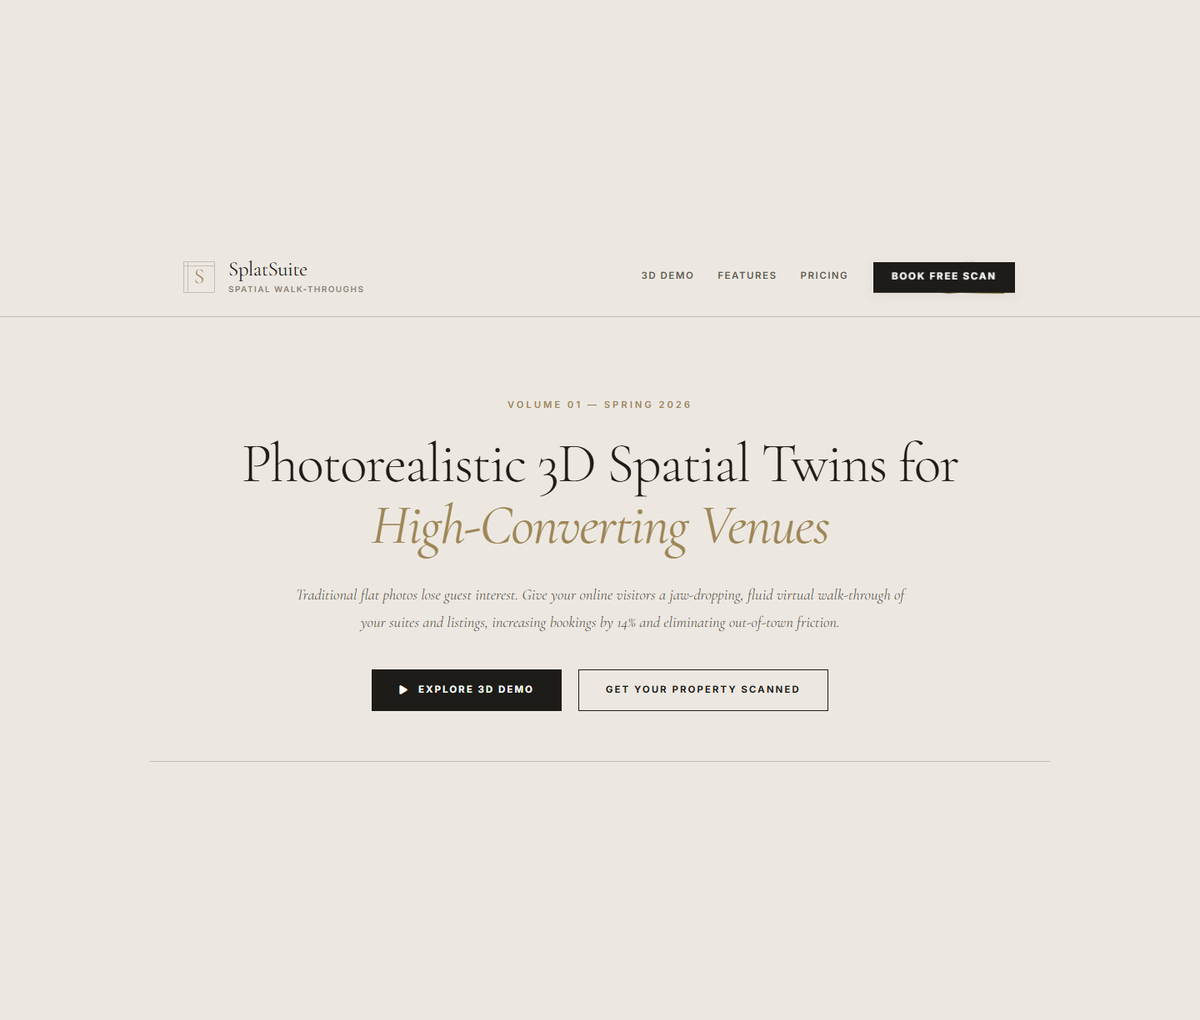
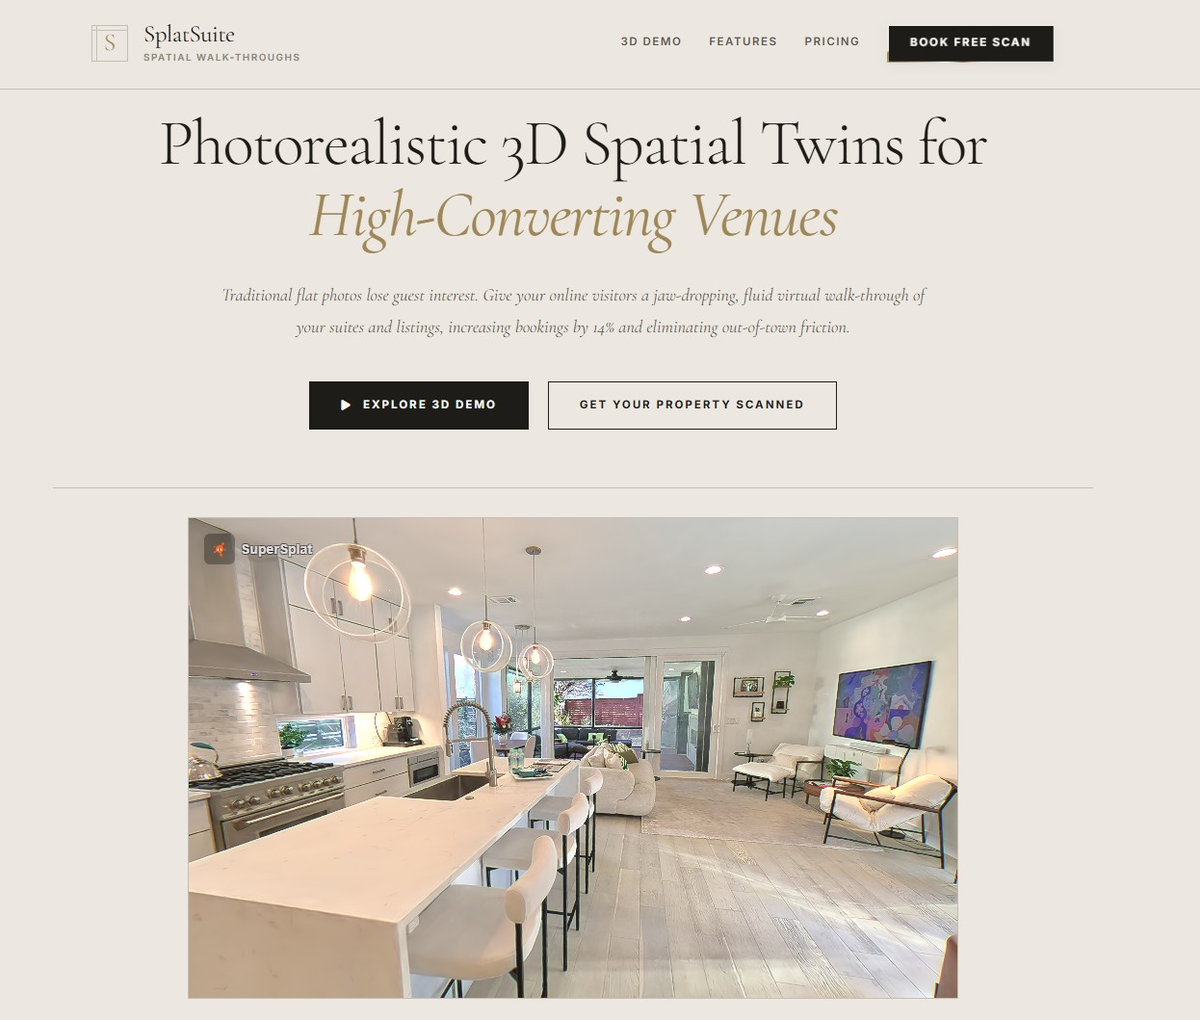
Content + layout polish across pages; real SplatSuite card image
- Recent Looks: SplatSuite card now uses the loaded SuperSplat interior shot
- Home "Real sites, real results": drop scroll-scrub (show text static), fix
  stats spacing under the marquee, remove magnetic overlap on the CTA buttons
- Home folk section: reformat headline (no squish / no overlap with figure),
  rename florist to Marguerite Rowe
- About: remove portrait placeholder SVG, single-column story, new heading;
  remove yellow marquee and the baker/barber clause
- Contact: remove map + hours cards, fix label/value spacing, show form
  immediately (no scroll fade)
- Pricing: cap hero heading size on wide screens, remove Pro photography
  add-on, Care & Keeping now $59/mo

diff --git a/index.html b/index.html
@@ -14,7 +14,7 @@
   <link rel="preconnect" href="https://api.fontshare.com" crossorigin />
   <link href="https://fonts.googleapis.com/css2?family=Rozha+One&display=swap" rel="stylesheet" />
   <link href="https://api.fontshare.com/v2/css?f[]=satoshi@400,500,700,900&display=swap" rel="stylesheet" />
-  <link rel="stylesheet" href="assets/css/site.css?v=38" />
+  <link rel="stylesheet" href="assets/css/site.css?v=42" />
 </head>
 <body>
 
@@ -141,7 +141,7 @@
               </div>
               <div class="folk-cap" data-person="1">
                 <span class="folk-trade">Bloom &amp; Stem</span>
-                <span class="folk-name">Marguerite Bloom <em>· 61</em></span>
+                <span class="folk-name">Marguerite Rowe <em>· 61</em></span>
                 <p class="folk-blurb">Hand-ties every bouquet before the shop lights come on. Her online storefront is just as fresh.</p>
               </div>
             </div>
@@ -207,7 +207,7 @@
               <a href="https://local-boyz-hawaiian-cafe.vercel.app/" target="_blank" rel="noopener" class="btn btn--outline">View live site <span class="arrow">↗</span></a>
             </article>
             <article class="card-work">
-              <a class="card-work__art" href="https://splatsuite-client.vercel.app/" target="_blank" rel="noopener" aria-label="Visit the SplatSuite live site"><img src="assets/img/work-splatsuite.png" alt="SplatSuite 3D spatial walk-through website front page" loading="lazy" /></a>
+              <a class="card-work__art" href="https://splatsuite-client.vercel.app/" target="_blank" rel="noopener" aria-label="Visit the SplatSuite live site"><img src="assets/img/work-splatsuite.png?v=2" alt="SplatSuite 3D spatial walk-through website front page" loading="lazy" /></a>
               <h3>SplatSuite</h3>
               <p>Photorealistic 3D walk-throughs for venues — a sleek, editorial homepage to match the tech.</p>
               <a href="https://splatsuite-client.vercel.app/" target="_blank" rel="noopener" class="btn btn--outline">View live site <span class="arrow">↗</span></a>
@@ -227,20 +227,16 @@
 
     </div><!-- /.stack -->
 
-    <!-- MANIFESTO: pinned, words ignite as you scroll -->
-    <section class="section s-ink arc-top" style="padding-block:0">
-      <div class="scrub-pin">
-        <div class="scrub-sticky">
-          <div class="wrap" style="display:grid; justify-items:center; text-align:center">
-            <span class="label eyebrow">Real sites, real results</span>
-            <p class="scrub" data-scrub style="margin-top:1.6rem">
-              From the baker up since 4am to the barber who knows <em>every name</em> — Main Street runs on people who <em>care</em>.
-              I build websites that finally do them <em>justice</em>, at a price a local shop can <em>actually afford</em>.
-            </p>
-          </div>
-        </div>
+    <!-- REAL SITES + STATS (static — no scroll-scrub) -->
+    <section class="section s-ink arc-top">
+      <div class="wrap" style="display:grid; justify-items:center; text-align:center">
+        <span class="label eyebrow">Real sites, real results</span>
+        <p class="scrub" style="margin-top:1.6rem">
+          From the baker up since 4am to the barber who knows <em>every name</em> — Main Street runs on people who <em>care</em>.
+          I build websites that finally do them <em>justice</em>, at a price a local shop can <em>actually afford</em>.
+        </p>
       </div>
-      <div class="wrap" style="padding-bottom:clamp(4.5rem,3rem+6vw,8rem)">
+      <div class="wrap" style="margin-top:clamp(2.5rem, 2rem + 3vw, 4.5rem)">
         <div class="stats stats--rule" data-stagger="0.1">
           <div class="stat reveal"><div class="num" style="color:var(--honey)"><span data-count="75">0</span><span class="suffix">%</span></div><div class="lbl muted">judge a business by its website</div></div>
           <div class="stat reveal"><div class="num" style="color:var(--honey)"><span data-count="3">0</span><span class="suffix">s</span></div><div class="lbl muted">to lose a slow-loading visitor</div></div>
@@ -361,8 +357,8 @@
         <h2 class="display display--up rise">Let's build something that lasts</h2>
         <p class="lede muted" style="margin-inline:auto">Tell me about your business and I'll show you exactly what your site could become — free, no obligation, one neighbor to another.</p>
         <div class="hero__actions" style="justify-content:center">
-          <a href="contact.html" class="btn btn--espresso btn--lg" data-magnetic>Start your project <span class="arrow">→</span></a>
-          <a href="pricing.html" class="btn btn--outline btn--lg" data-magnetic>See pricing</a>
+          <a href="contact.html" class="btn btn--espresso btn--lg">Start your project <span class="arrow">→</span></a>
+          <a href="pricing.html" class="btn btn--outline btn--lg">See pricing</a>
         </div>
       </div>
     </section>
@@ -396,6 +392,6 @@
     </div>
   </footer>
 
-  <script src="assets/js/site.js?v=38" defer></script>
+  <script src="assets/js/site.js?v=42" defer></script>
 </body>
 </html>

diff --git a/contact.html b/contact.html
@@ -12,7 +12,7 @@
   <link rel="preconnect" href="https://api.fontshare.com" crossorigin />
   <link href="https://fonts.googleapis.com/css2?family=Rozha+One&display=swap" rel="stylesheet" />
   <link href="https://api.fontshare.com/v2/css?f[]=satoshi@400,500,700,900&display=swap" rel="stylesheet" />
-  <link rel="stylesheet" href="assets/css/site.css?v=38" />
+  <link rel="stylesheet" href="assets/css/site.css?v=42" />
 </head>
 <body>
 
@@ -71,7 +71,7 @@
     <!-- CONTACT -->
     <section class="section s-cream arc-top">
       <div class="wrap contact-grid">
-        <div class="reveal reveal--left">
+        <div>
           <!--
             TO MAKE THIS FORM SEND FOR REAL:
             • Formspree (any host): create a form at formspree.io, then replace the action
@@ -111,36 +111,14 @@
           </div>
         </div>
 
-        <aside class="reveal reveal--right">
-          <div class="contact-card" style="margin-bottom:1.5rem">
+        <aside>
+          <div class="contact-card">
             <h3>Reach me directly</h3>
             <div class="contact-line"><span class="ci" aria-hidden="true"><svg width="20" height="20" viewBox="0 0 24 24" fill="none" stroke="currentColor" stroke-width="1.8"><rect x="3" y="5" width="18" height="14" rx="2"/><path d="M3 7l9 6 9-6"/></svg></span><span><span class="lbl">Email</span><a class="val" href="mailto:daviskapela@gmail.com">daviskapela@gmail.com</a></span></div>
             <div class="contact-line"><span class="ci" aria-hidden="true"><svg width="20" height="20" viewBox="0 0 24 24" fill="none" stroke="currentColor" stroke-width="1.8"><path d="M5 4h4l2 5-2.5 1.5a11 11 0 0 0 5 5L16 13l5 2v4a2 2 0 0 1-2 2A18 18 0 0 1 3 6a2 2 0 0 1 2-2z"/></svg></span><span><span class="lbl">Prefer to talk?</span><span class="val">Book a free 20-min call</span></span></div>
             <div class="contact-line"><span class="ci" aria-hidden="true"><svg width="20" height="20" viewBox="0 0 24 24" fill="none" stroke="currentColor" stroke-width="1.8"><path d="M21 10c0 6-9 12-9 12s-9-6-9-12a9 9 0 0 1 18 0z"/><circle cx="12" cy="10" r="3"/></svg></span><span><span class="lbl">Based in</span><span class="val">Your hometown — serving Main Streets everywhere</span></span></div>
           </div>
 
-          <div class="contact-card" style="margin-bottom:1.5rem">
-            <h3>Hours</h3>
-            <div class="hours-row"><span>Monday – Friday</span><span>9:00 – 6:00</span></div>
-            <div class="hours-row"><span>Saturday</span><span>By appointment</span></div>
-            <div class="hours-row"><span>Sunday</span><span>Closed — back Monday</span></div>
-            <p class="muted" style="margin-top:1rem; font-size:0.88rem">Emails sent after hours get a reply first thing the next morning.</p>
-          </div>
-
-          <div class="contact-card" style="padding:0; overflow:hidden">
-            <svg viewBox="0 0 480 200" preserveAspectRatio="xMidYMid slice" role="img" aria-label="Stylized Main Street map">
-              <rect width="480" height="200" fill="#26272d"/>
-              <path d="M0 130 H480" stroke="#6aacc2" stroke-width="14" opacity="0.5"/>
-              <path d="M0 132 H480" stroke="#f4ecd9" stroke-width="2" stroke-dasharray="14 12" opacity="0.5"/>
-              <path d="M150 0 V200M340 0 V200" stroke="#f4ecd9" stroke-width="8" opacity="0.12"/>
-              <rect x="40" y="70" width="80" height="50" rx="6" fill="#8a2e1d"/>
-              <rect x="180" y="60" width="70" height="60" rx="6" fill="#6aacc2"/>
-              <rect x="270" y="78" width="55" height="42" rx="6" fill="#f5ae35"/>
-              <rect x="380" y="64" width="70" height="56" rx="6" fill="#8a2e1d"/>
-              <g transform="translate(240,96)"><path d="M0 0 C-16 -22 -16 -40 0 -40 C16 -40 16 -22 0 0Z" fill="#f5ae35"/><circle cx="0" cy="-26" r="7" fill="#26272d"/></g>
-              <text x="240" y="174" text-anchor="middle" font-family="'Rozha One', serif" font-size="18" fill="#f5ae35">RIGHT ON MAIN STREET</text>
-            </svg>
-          </div>
         </aside>
       </div>
     </section>
@@ -181,6 +159,6 @@
     </div>
   </footer>
 
-  <script src="assets/js/site.js?v=38" defer></script>
+  <script src="assets/js/site.js?v=42" defer></script>
 </body>
 </html>

diff --git a/about.html b/about.html
@@ -12,7 +12,7 @@
   <link rel="preconnect" href="https://api.fontshare.com" crossorigin />
   <link href="https://fonts.googleapis.com/css2?family=Rozha+One&display=swap" rel="stylesheet" />
   <link href="https://api.fontshare.com/v2/css?f[]=satoshi@400,500,700,900&display=swap" rel="stylesheet" />
-  <link rel="stylesheet" href="assets/css/site.css?v=38" />
+  <link rel="stylesheet" href="assets/css/site.css?v=42" />
 </head>
 <body>
 
@@ -68,35 +68,13 @@
       </div>
     </section>
 
-    <div class="marquee marquee--honey marquee--pad" aria-hidden="true">
-      <div class="marquee__track">
-        <span>Craft over shortcuts</span><span>Honest always</span><span>Local at heart</span><span>Fast, then faster</span>
-        <span>Craft over shortcuts</span><span>Honest always</span><span>Local at heart</span><span>Fast, then faster</span>
-      </div>
-    </div>
-
     <!-- STORY -->
     <section class="section s-cream arc-top">
-      <div class="wrap split">
-        <div class="portrait reveal reveal--left">
-          <span class="stamp"><b>Davis</b>Founder &amp; designer</span>
-          <svg viewBox="0 0 400 460" preserveAspectRatio="xMidYMid slice" role="img" aria-label="Illustrated portrait placeholder">
-            <rect width="400" height="460" fill="#26272d"/>
-            <circle cx="200" cy="300" r="150" fill="#f5ae35" opacity="0.18"/>
-            <g transform="translate(200,250)">
-              <rect x="-92" y="120" width="184" height="130" rx="42" fill="#8a2e1d"/>
-              <circle cx="0" cy="40" r="72" fill="#e9c49b"/>
-              <path d="M-72 30 a72 72 0 0 1 144 0 q-72 -52 -144 0Z" fill="#2c1c18"/>
-              <circle cx="-26" cy="34" r="6" fill="#2c1c18"/><circle cx="26" cy="34" r="6" fill="#2c1c18"/>
-              <path d="M-22 64 q22 18 44 0" fill="none" stroke="#8a2e1d" stroke-width="5" stroke-linecap="round"/>
-            </g>
-            <text x="200" y="200" text-anchor="middle" font-family="'Rozha One', serif" font-size="22" fill="#f4ecd9" opacity="0.5">YOUR PHOTO HERE</text>
-          </svg>
-        </div>
-        <div class="reveal reveal--right">
+      <div class="wrap">
+        <div class="reveal" style="max-width:720px; margin-inline:auto">
           <span class="label eyebrow label--muted" style="display:inline-flex">The short version</span>
-          <h2 class="display display--up" style="margin-top:0.9rem">A designer who roots for the little guy</h2>
-          <p class="lede" style="margin-top:1.2rem">I started Mainstreet Modern because I kept seeing the same thing: incredible local businesses — the baker up since 4am, the barber who knows everyone's name — stuck with websites that didn't come close to doing them justice.</p>
+          <h2 class="display display--up" style="margin-top:0.9rem">A designer who builds for local businesses</h2>
+          <p class="lede" style="margin-top:1.2rem">I started Mainstreet Modern because I kept seeing the same thing: incredible local businesses stuck with websites that didn't come close to doing them justice.</p>
           <p class="muted" style="margin-top:1.1rem">Slow, clunky, template sites that looked like everyone else's, while the big chains pulled customers right past the local shops with slick, fast, beautiful websites. That never sat right with me.</p>
           <p class="muted" style="margin-top:1.1rem">So I decided to level the field — combining modern design and the newest tools to build genuinely world-class sites, priced so a Main Street business can actually afford one. That's the whole idea.</p>
           <p class="signature">— Davis</p>
@@ -166,6 +144,6 @@
     </div>
   </footer>
 
-  <script src="assets/js/site.js?v=38" defer></script>
+  <script src="assets/js/site.js?v=42" defer></script>
 </body>
 </html>

diff --git a/assets/css/site.css b/assets/css/site.css
@@ -497,10 +497,12 @@ h3.display { font-size: clamp(1.6rem, 1.1rem + 2vw, 2.6rem); }
 .folk-dots span.on { opacity: 1; width: 24px; border-radius: 4px; background: var(--honey); }
 
 /* right-hand statement */
-.folk-right { max-width: 18ch; }
+.folk-right { min-width: 0; }   /* let the grid column bound it (no squished 18ch cap) */
 .folk-right .eyebrow { color: var(--honey); }
 .folk-right .eyebrow::before { color: var(--honey); }
-.folk-right h2 { margin-top: 1.1rem; color: var(--cream); }
+/* smaller than the default huge display h2 so the long words wrap nicely and
+   never overflow the column into the figure at medium widths */
+.folk-right h2 { margin-top: 1.1rem; color: var(--cream); font-size: clamp(1.9rem, 1rem + 3.4vw, 4rem); overflow-wrap: break-word; }
 .folk-sub { margin-top: 1.4rem; max-width: 40ch; color: var(--on-dark-muted); }
 
 @media (max-width: 899px) {
@@ -528,21 +530,13 @@ h3.display { font-size: clamp(1.6rem, 1.1rem + 2vw, 2.6rem); }
 .rise .word > span { display: inline-block; transform: translateY(110%); transition: transform 0.85s var(--ease); transition-delay: calc(var(--i, 0) * 0.06s); }
 .rise.in .word > span { transform: translateY(0); }
 
-/* scroll-scrubbed manifesto — words ignite as you scroll through the section */
-.scrub-pin { position: relative; height: 230vh; }
-.scrub-sticky {
-  position: sticky; top: 0; min-height: 100vh; min-height: 100svh;
-  display: flex; flex-direction: column; justify-content: center;
-}
+/* "Real sites, real results" manifesto — shown static (no scroll-scrub) */
 .scrub {
   font-family: var(--display); font-weight: 400;
   font-size: clamp(1.9rem, 1rem + 3.4vw, 4.2rem);
   line-height: 1.25; letter-spacing: -0.01em; max-width: 24ch;
 }
-.scrub .sw { opacity: 0.14; transition: opacity 0.4s var(--ease-soft), color 0.4s; }
-.scrub .sw.on { opacity: 1; }
-.scrub em { font-style: italic; }
-.scrub em .sw.on { color: var(--honey); }
+.scrub em { font-style: italic; color: var(--honey); }
 
 /* ---------- 13b. STATEMENT BLOCKS ---------- */
 .statement { text-align: center; }
@@ -810,8 +804,8 @@ h3.display { font-size: clamp(1.6rem, 1.1rem + 2vw, 2.6rem); }
 .contact-line { display: grid; grid-template-columns: 44px 1fr; gap: 0.9rem; align-items: center; padding: 0.8rem 0; border-bottom: 1px solid rgba(41,26,18,0.1); }
 .contact-line:last-child { border-bottom: 0; }
 .contact-line .ci { width: 44px; height: 44px; border-radius: 12px; background: var(--honey); color: var(--ink); display: grid; place-items: center; }
-.contact-line .lbl { font-size: 0.68rem; text-transform: uppercase; letter-spacing: 0.12em; color: var(--muted); font-weight: 700; }
-.contact-line .val { font-weight: 700; }
+.contact-line .lbl { display: block; margin-bottom: 0.2rem; font-size: 0.68rem; text-transform: uppercase; letter-spacing: 0.12em; color: var(--muted); font-weight: 700; }
+.contact-line .val { display: block; font-weight: 700; }
 .hours-row { display: flex; justify-content: space-between; padding: 0.35rem 0; font-size: 0.92rem; }
 .hours-row span:last-child { color: var(--muted); }
 
@@ -889,10 +883,6 @@ h3.display { font-size: clamp(1.6rem, 1.1rem + 2vw, 2.6rem); }
   .marquee__track { animation: none; }
   .loader { display: none; }
   .sign-drop, .sign-swing, .logo-word .l, .logo-modern, .logo-tag, .hero-logo .scroll-cue { opacity: 1 !important; transform: none !important; animation: none !important; }
-  .scrub .sw { opacity: 1 !important; }
-  .scrub-pin { height: auto; padding-block: clamp(4rem, 8vw, 8rem); }
-  .scrub-sticky { position: static; min-height: 0; }
-  .cur-dot, .cur-ring { display: none; }
   .page-wipe { display: none; }
   .step-card { transform: none !important; }
   .step-card::after { display: none; }

diff --git a/pricing.html b/pricing.html
@@ -12,7 +12,7 @@
   <link rel="preconnect" href="https://api.fontshare.com" crossorigin />
   <link href="https://fonts.googleapis.com/css2?family=Rozha+One&display=swap" rel="stylesheet" />
   <link href="https://api.fontshare.com/v2/css?f[]=satoshi@400,500,700,900&display=swap" rel="stylesheet" />
-  <link rel="stylesheet" href="assets/css/site.css?v=38" />
+  <link rel="stylesheet" href="assets/css/site.css?v=42" />
 </head>
 <body>
 
@@ -63,7 +63,7 @@
       <div class="hero__glow" aria-hidden="true"></div>
       <div class="wrap hero__inner" style="max-width:880px">
         <span class="label eyebrow" style="display:inline-flex; color:var(--honey)">Pricing</span>
-        <h1 class="display display--up rise" style="margin-top:1rem">Fair prices for work that lasts</h1>
+        <h1 class="display display--up rise" style="margin-top:1rem; font-size:clamp(3rem, 1rem + 10vw, 7rem)">Fair prices for work that lasts</h1>
         <p class="hero__lede lede">One craftsman, honest rates, and a website you own outright. Every plan includes a custom design, a mobile-perfect build, and a real person to call. Pick a starting point — we'll tailor it to fit.</p>
       </div>
     </section>
@@ -122,7 +122,7 @@
         </div>
 
         <div class="note-card reveal">
-          <h3>Care &amp; Keeping — <span style="color:var(--honey)">$49/mo</span></h3>
+          <h3>Care &amp; Keeping — <span style="color:var(--honey)">$59/mo</span></h3>
           <p>Optional, cancel anytime. Hosting, security, backups, software updates, and small content edits whenever you need them — so your site stays fast and current without you thinking about it.</p>
         </div>
       </div>
@@ -137,7 +137,6 @@
         </div>
         <div class="addons" data-stagger="0.06">
           <div class="addon reveal"><h4>Brand &amp; logo <span>$350</span></h4><p>A polished wordmark and color palette to match your new site.</p></div>
-          <div class="addon reveal"><h4>Pro photography <span>$300</span></h4><p>A guided shoot of your space, team, and products — done right.</p></div>
           <div class="addon reveal"><h4>Extra page <span>$200</span></h4><p>Need one more? Add custom pages any time as you grow.</p></div>
           <div class="addon reveal"><h4>Copywriting <span>$250</span></h4><p>I'll write words that sound like you and sell for you.</p></div>
           <div class="addon reveal"><h4>Email setup <span>$120</span></h4><p>Professional you@yourbusiness.com inboxes, configured for you.</p></div>
@@ -198,6 +197,6 @@
     </div>
   </footer>
 
-  <script src="assets/js/site.js?v=38" defer></script>
+  <script src="assets/js/site.js?v=42" defer></script>
 </body>
 </html>
